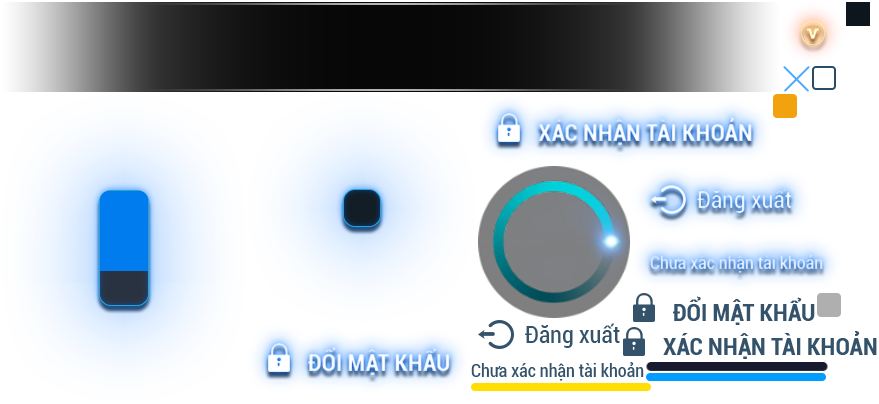
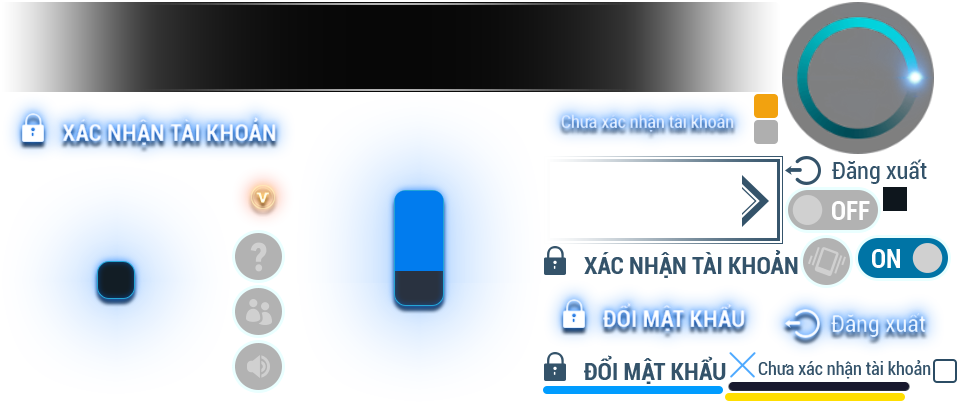
zzz

diff --git a/res/Game/js/Dialog/SettingDialog.js b/res/Game/js/Dialog/SettingDialog.js
@@ -4,10 +4,59 @@
 var SettingDialog = Dialog.extend({
     ctor : function () {
         this._super();
-        this.initWithSize(cc.size(600, 320));
+        this.initWithSize(cc.size(600, 430));
         this.title.setString("Cài đặt");
-        this.closeButton.visible = false;
+       // this.closeButton.visible = false;
         this.okButton.visible = false;
         this.cancelButton.visible = false;
+
+        var soundLabel = cc.Label.createWithBMFont(cc.res.font.Roboto_Condensed_25, "Âm thanh");
+        soundLabel.setAnchorPoint(cc.p(0.0, 0.5));
+        soundLabel.setPosition(220, 380);
+        this.dialogNode.addChild(soundLabel);
+
+        var vibratorLabel = cc.Label.createWithBMFont(cc.res.font.Roboto_Condensed_25, "Rung");
+        vibratorLabel.setAnchorPoint(soundLabel.getAnchorPoint());
+        vibratorLabel.setPosition(soundLabel.x, soundLabel.y - 70);
+        this.dialogNode.addChild(vibratorLabel);
+
+        var inviteLabel = cc.Label.createWithBMFont(cc.res.font.Roboto_Condensed_25, "Nhận lời mời chơi");
+        inviteLabel.setAnchorPoint(soundLabel.getAnchorPoint());
+        inviteLabel.setPosition(vibratorLabel.x, vibratorLabel.y - 70);
+        this.dialogNode.addChild(inviteLabel);
+
+        var emailLabel = cc.Label.createWithBMFont(cc.res.font.Roboto_Condensed_25, "Email: " + GameConfig.email);
+        emailLabel.setAnchorPoint(soundLabel.getAnchorPoint());
+        emailLabel.setPosition(inviteLabel.x, inviteLabel.y - 70);
+        this.dialogNode.addChild(emailLabel);
+
+        var soundIcon = new cc.Sprite("#setting-sound-icon.png");
+        soundIcon.setPosition(180, soundLabel.y);
+        this.dialogNode.addChild(soundIcon);
+
+        var vibratorIcon = new cc.Sprite("#setting-vibrator-icon.png");
+        vibratorIcon.setPosition(soundIcon.x, vibratorLabel.y);
+        this.dialogNode.addChild(vibratorIcon);
+
+        var inviteIcon = new cc.Sprite("#setting-invite-icon.png");
+        inviteIcon.setPosition(soundIcon.x, inviteLabel.y);
+        this.dialogNode.addChild(inviteIcon);
+
+        var emailIcon = new cc.Sprite("#setting-help-icon.png");
+        emailIcon.setPosition(soundIcon.x, emailLabel.y);
+        this.dialogNode.addChild(emailIcon);
+
+        var soundOnOff = new newui.ButtonToggle("#setting-on.png","#setting-off.png");
+        soundOnOff.setPosition(550, soundLabel.y);
+        soundOnOff.onSelect = function (target,selected) {
+            if(selected){
+
+            }
+            else{
+
+            }
+        };
+        this.dialogNode.addChild(soundOnOff);
+        soundOnOff.select(cc.Global.GetSetting("sound",true));
     }
 });

diff --git a/res/Game/js/Core/ButtonToggle.js b/res/Game/js/Core/ButtonToggle.js
@@ -1,0 +1,48 @@
+/**
+ * Created by Quyet Nguyen on 7/20/2016.
+ */
+
+var newui = newui || {};
+newui.ButtonToggle = ccui.Widget.extend({
+    ctor : function (imgOn, imgOff) {
+        this._super();
+        var spriteOn = new cc.Sprite(imgOn);
+        var spriteOff = new cc.Sprite(imgOff);
+        this.addChild(spriteOn);
+        this.addChild(spriteOff);
+        this.setContentSize(spriteOn.getContentSize());
+        this.setTouchEnabled(true);
+        spriteOn.setPosition(this.getContentSize().width/2, this.getContentSize().height/2);
+        spriteOff.setPosition(spriteOn.getPosition());
+        
+        this.spriteOn = spriteOn;
+        this.spriteOff = spriteOff;
+        var thiz = this;
+        this.addClickEventListener(function () {
+            if(thiz.selected){
+                thiz.select(false);
+            }
+            else{
+                thiz.select(true);
+            }
+        });
+        this.select(false);
+    },
+    select : function (selected) {
+        this.selected = selected;
+        if(selected){
+            this.spriteOn.visible = true;
+            this.spriteOff.visible = false;
+            if(this.onSelect){
+                this.onSelect(this, true);
+            }
+        }
+        else{
+            this.spriteOn.visible = false;
+            this.spriteOff.visible = true;
+            if(this.onSelect){
+                this.onSelect(this, false);
+            }
+        }
+    }
+});

diff --git a/res/Game/js/Global/Global.js b/res/Game/js/Global/Global.js
@@ -113,6 +113,10 @@ PlayerMe.exp = 11000;
 PlayerMe.vipExp = 1000;
 PlayerMe.messageCount = 100;
 
+var GameConfig = GameConfig || {};
+GameConfig.email = "gamebaivip@gmail.com";
+GameConfig.hotline = "0123456789";
+
 var LevelData = JSON.parse(jsb.fileUtils.getStringFromFile("res/data/LevelData.json"));
 var VipData = JSON.parse(jsb.fileUtils.getStringFromFile("res/data/VipData.json"));
 cc.Global.GetLevel = function (exp) {
@@ -161,4 +165,15 @@ cc.Global.GetLevelMe = function () {
 };
 cc.Global.GetVipMe = function () {
     return cc.Global.GetVip(PlayerMe.vipExp);
+};
+
+cc.Global.GetSetting = function (setting, defaultValue) {
+    var value = cc.sys.localStorage.getItem(JSON.stringify(setting));
+    if(value){
+        return JSON.parse(value);
+    }
+    return defaultValue;
+};
+cc.Global.SetSetting = function (setting, value) {
+    cc.sys.localStorage.setItem(JSON.stringify(setting), JSON.stringify(value));
 };

diff --git a/res/Game/js/Dialog/UserinfoDialog.js b/res/Game/js/Dialog/UserinfoDialog.js
@@ -377,6 +377,9 @@ var UserinfoDialog = IDialog.extend({
         var y = 419.0;
         var dy = 86.0;
 
+        var selectSprite = new cc.Sprite("#userinfo-tab-selected.png");
+        this.dialogNode.addChild(selectSprite,1);
+
         var mToggle = new ToggleNodeGroup();
         this.mToggle = mToggle;
         this.dialogNode.addChild(mToggle);
@@ -410,6 +413,7 @@ var UserinfoDialog = IDialog.extend({
                 this.icon1.visible = false;
                 this.icon2.visible = true;
                 this.layer.setVisible(true);
+                selectSprite.setPosition(this.getPosition());
             };
             toggleItem.onUnSelect = function () {
                 this.icon1.visible = true;

diff --git a/res/Game/js/main.js b/res/Game/js/main.js
@@ -54,6 +54,7 @@
 require("js/Global/Global.js");
 require("js/Core/NewAction.js");
 require("js/Core/ToggleNodeGroup.js");
+require("js/Core/ButtonToggle.js");
 require("js/Socket/LobbyClient.js");
 require("js/Socket/SmartfoxClient.js");
 require("js/Global/UserAvatar.js");

diff --git a/res/Game/js/Home/HomeScene.js b/res/Game/js/Home/HomeScene.js
@@ -62,7 +62,7 @@ var HomeScene = IScene.extend({
             thiz.userInfoButtonHandler();
         });
 
-        this.startHome();
+        this.startGame();
     },
 
     startHome : function () {
